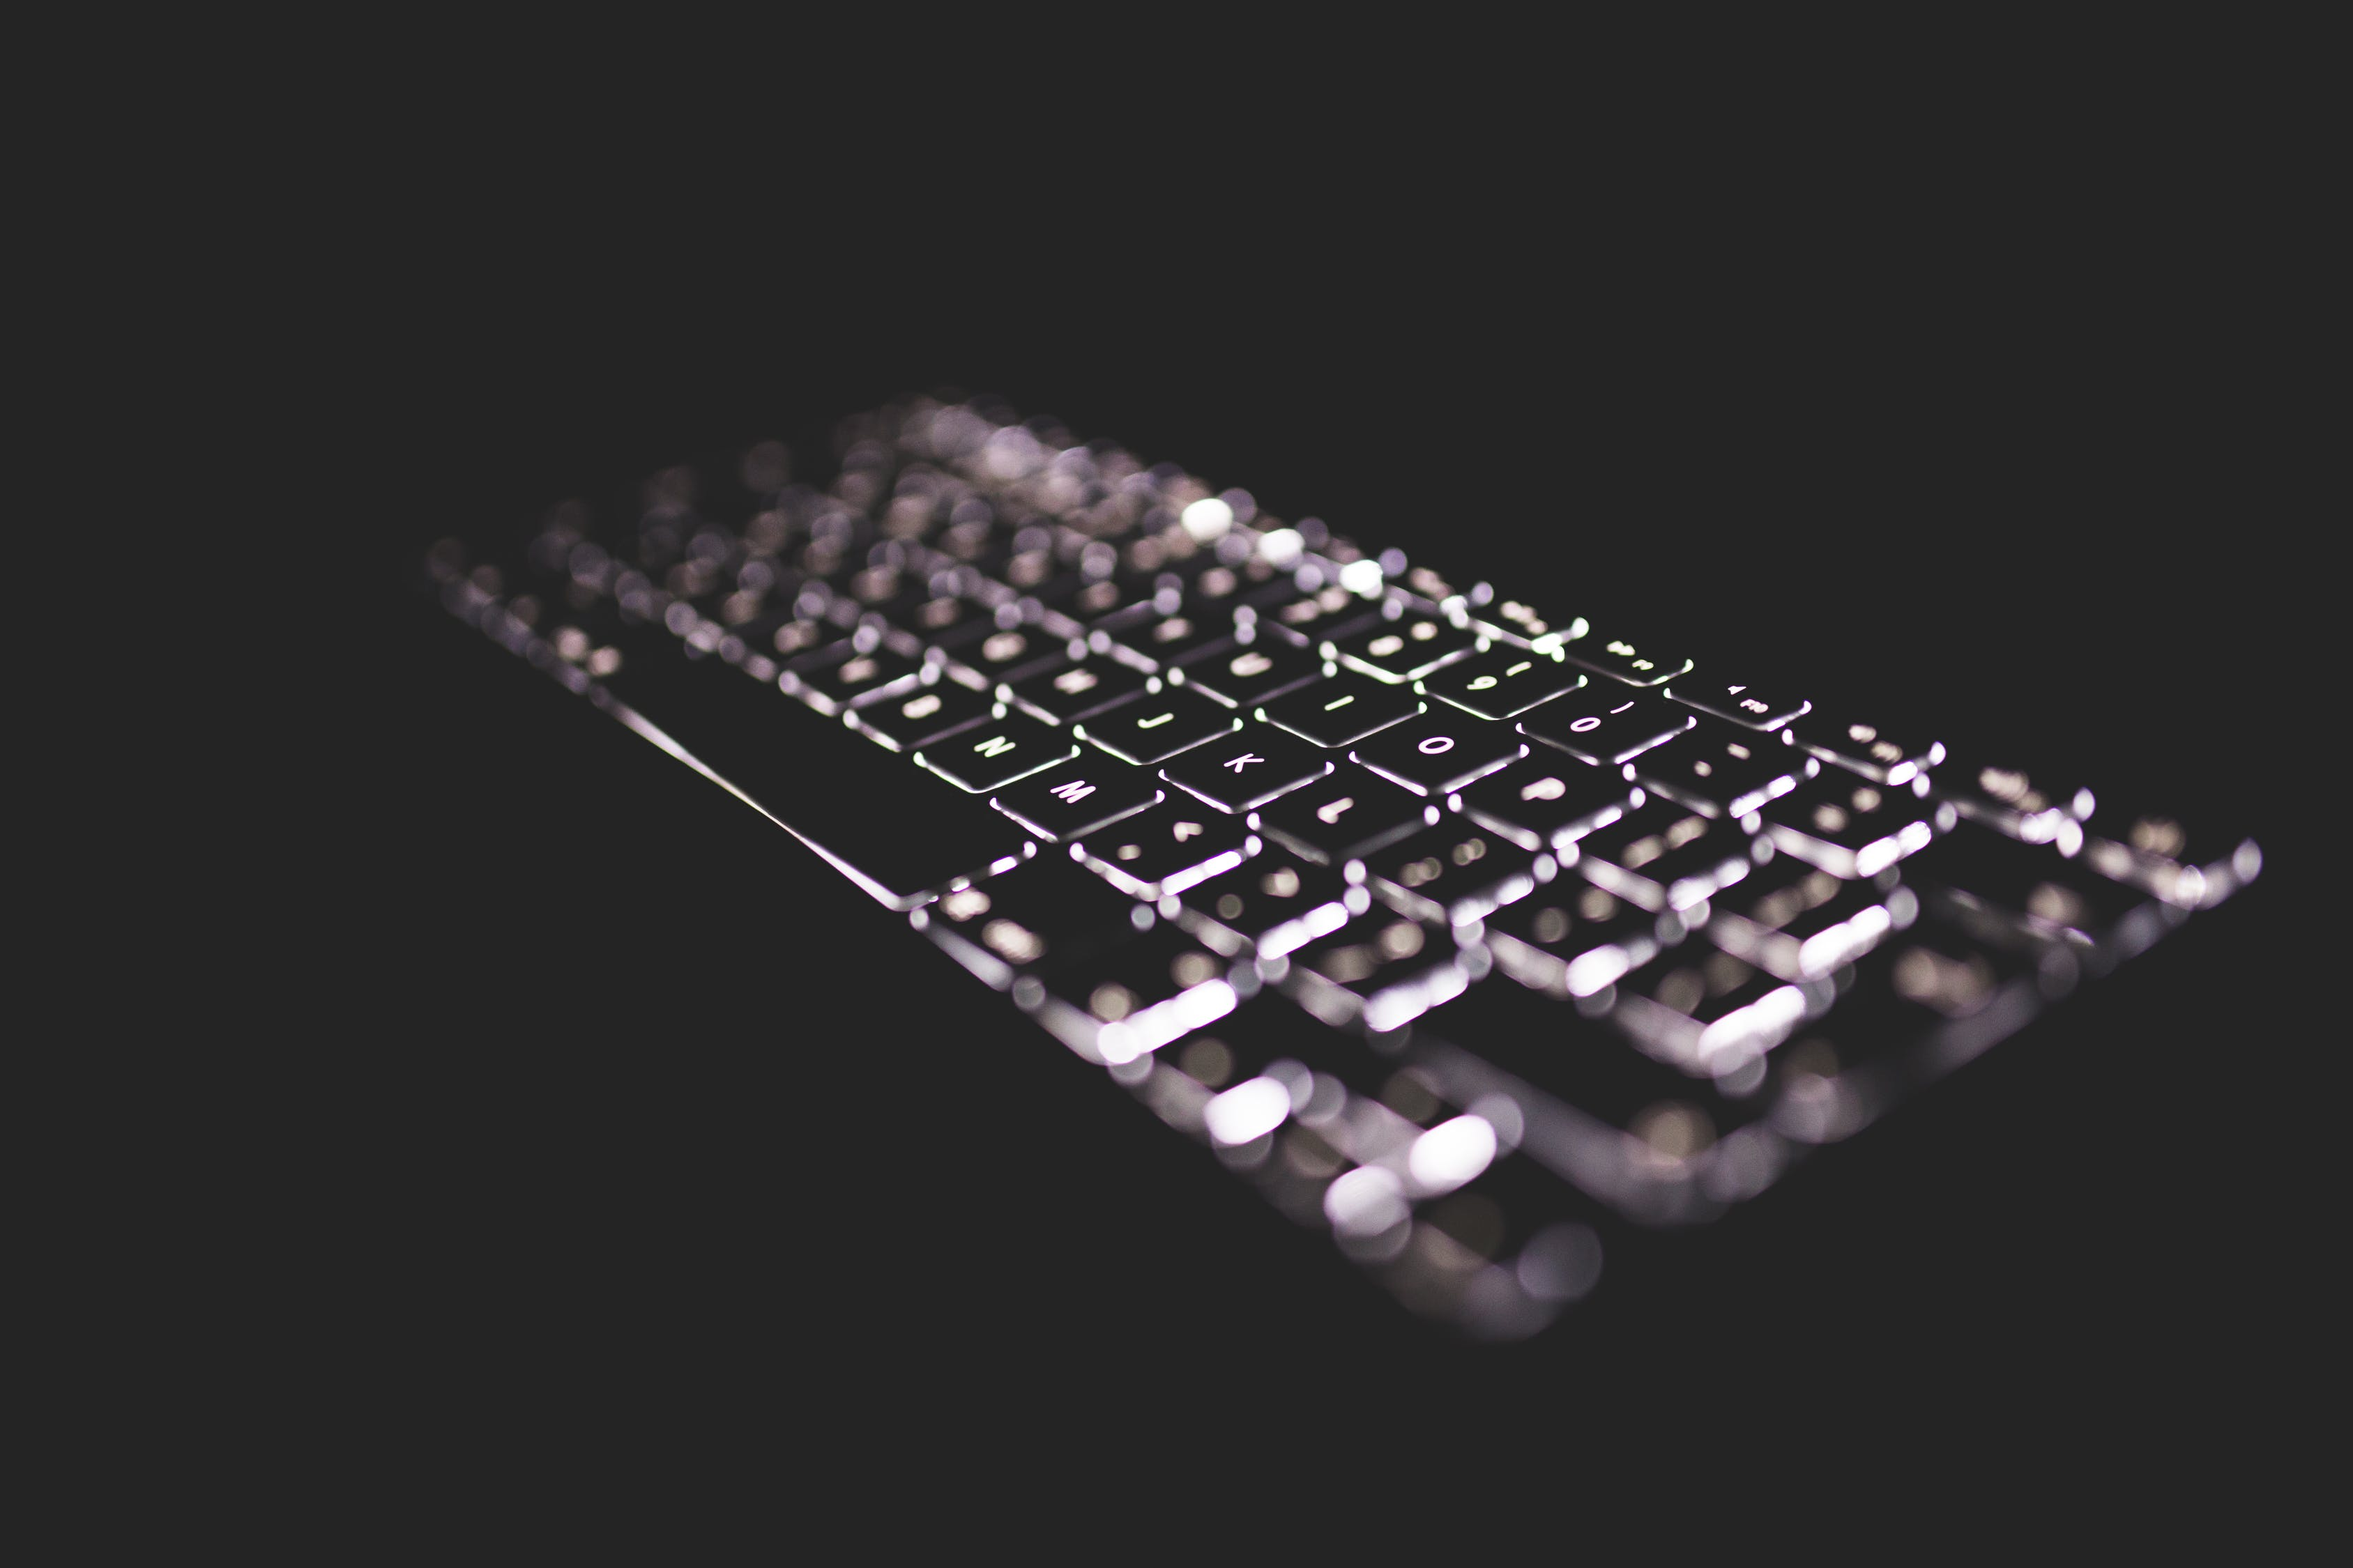
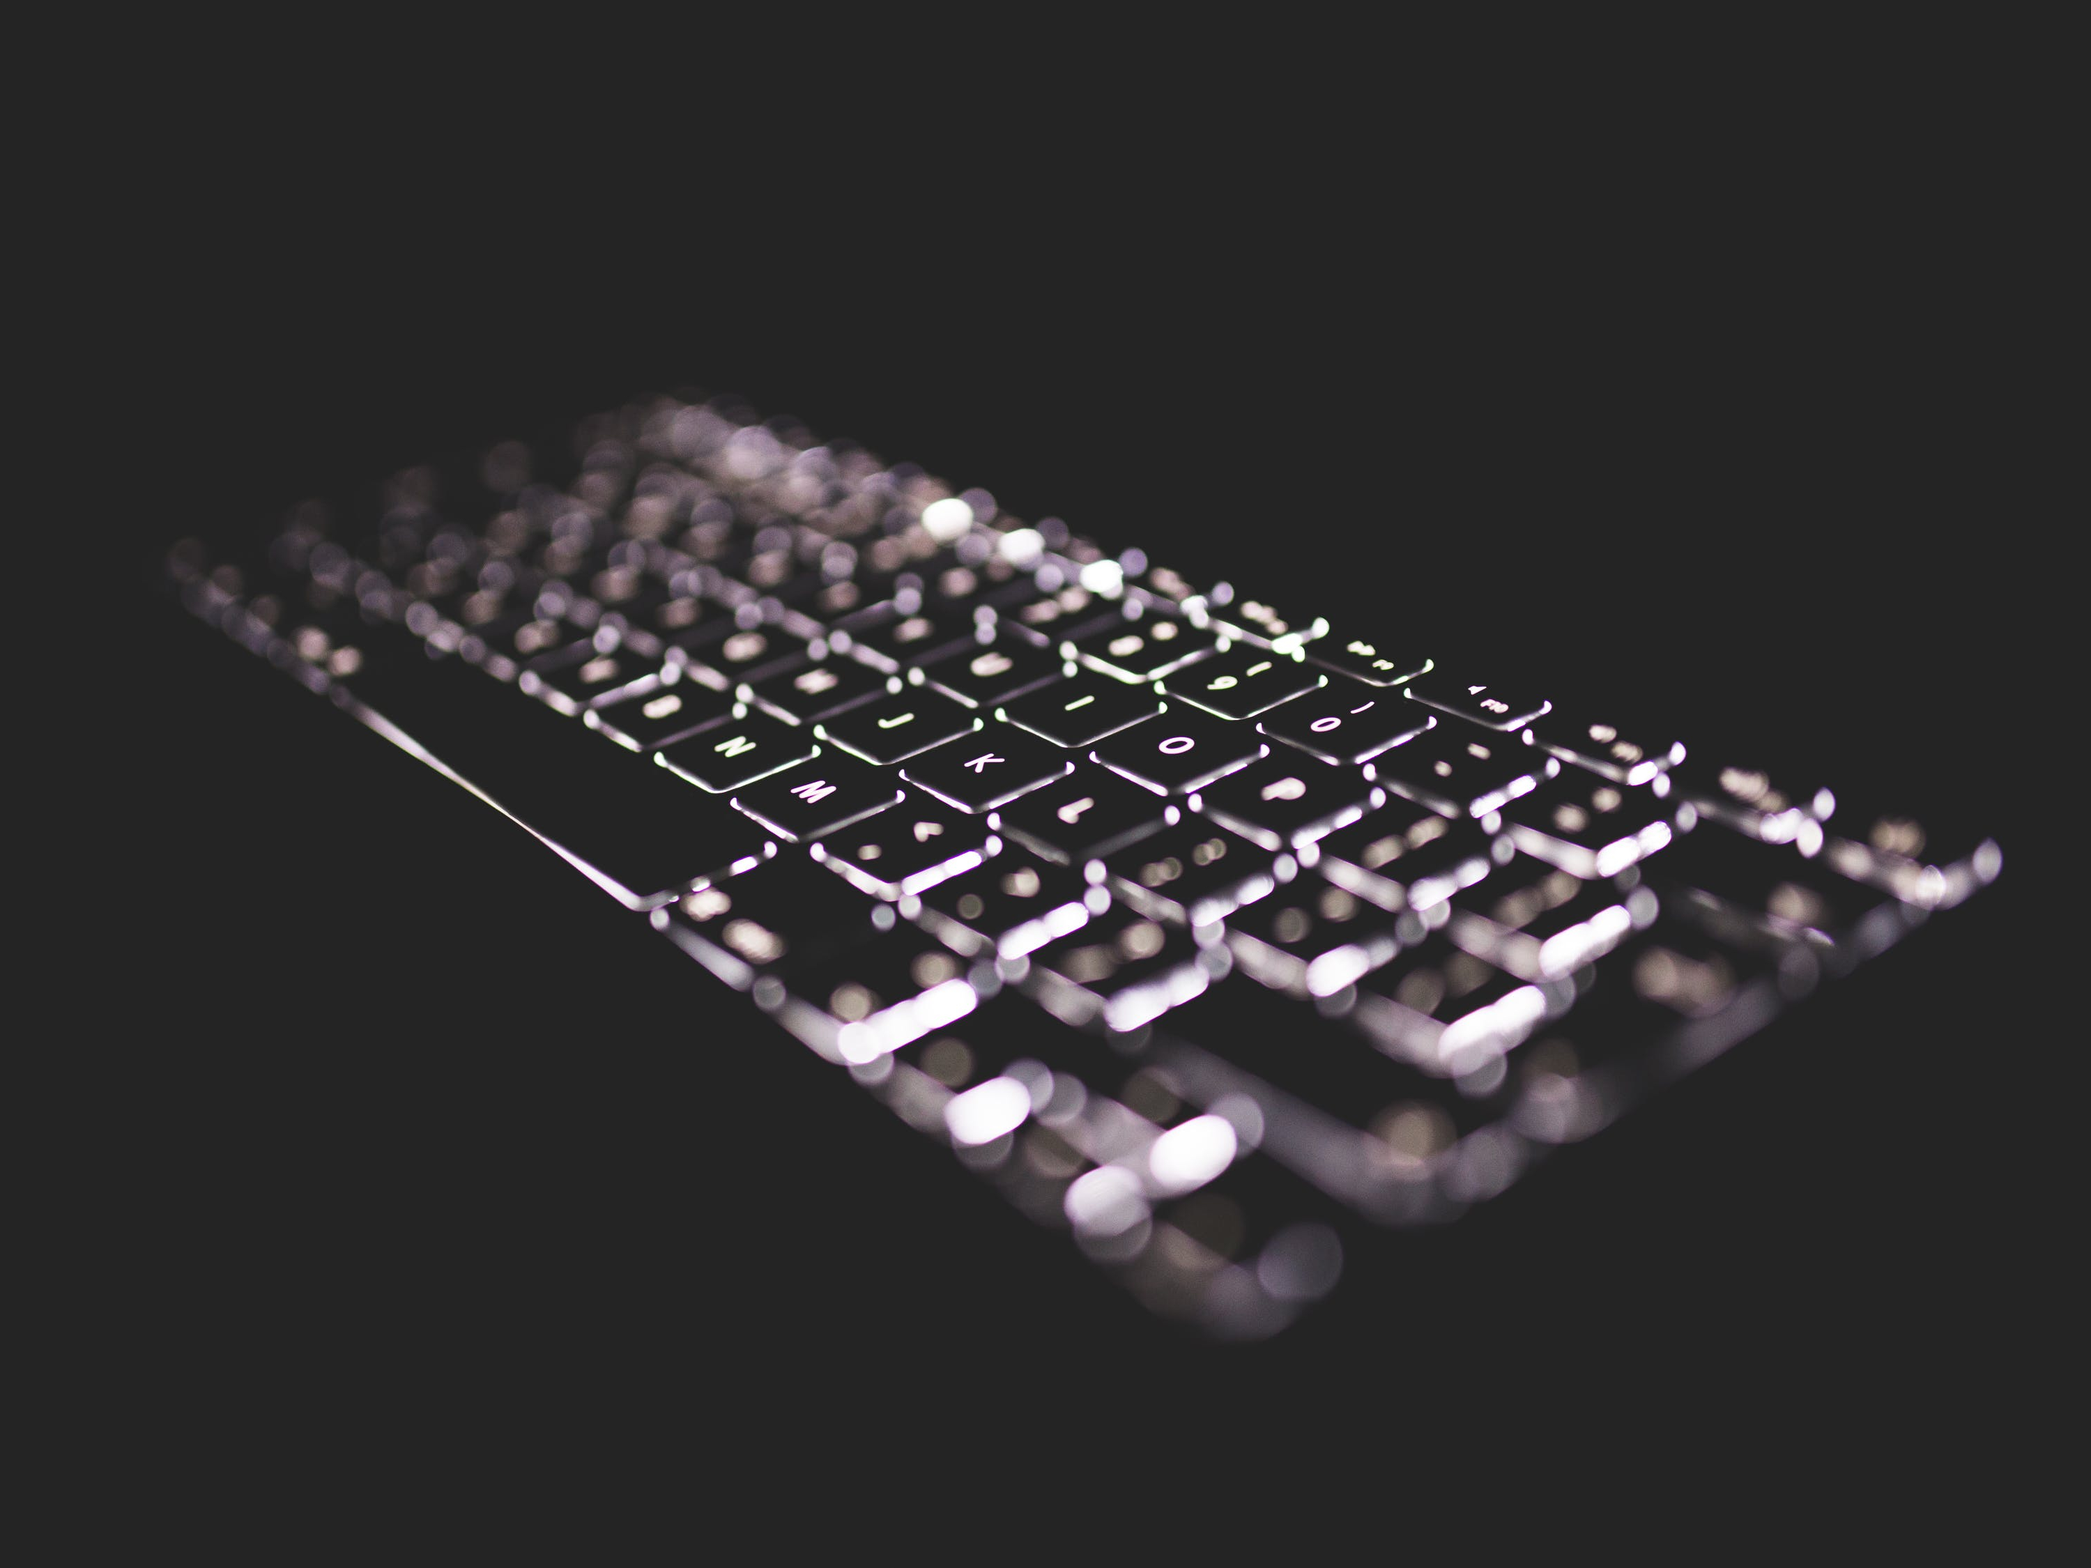
Adjust styling

diff --git a/src/app/components/typing-message/typing-message.component.ts b/src/app/components/typing-message/typing-message.component.ts
@@ -31,7 +31,11 @@ export class TypingMessageComponent implements AfterContentInit {
       } else {
         this.showCursor = !this.showCursor;
       }
-      setTimeout(() => updateCursor(), blinkTime);
+      if (repeat) {
+        setTimeout(() => updateCursor(), blinkTime);
+      } else {
+        this.showCursor = false;
+      }
     };
 
     const updateText = () => {

diff --git a/src/app/app.component.scss b/src/app/app.component.scss
@@ -33,7 +33,9 @@
   background: linear-gradient(rgba(0, 0, 0, 0.5), rgba(0, 0, 0, 0.5)),
     url(../assets/keyboard.jpg);
   background-color: rgba(40, 40, 40, 1);
-  background-size: 100% 100%;
+  background-size: 100% auto;
+  background-position: center;
+  background-repeat: no-repeat;
 }
 
 #main-content {

diff --git a/src/app/components/typing-message/typing-message.component.scss b/src/app/components/typing-message/typing-message.component.scss
@@ -3,7 +3,8 @@
 #intro-text {
   @extend .larger-text;
   width: 100%;
-  height: 2em;
+  height: fit-content;
+  min-height: 2em;
   margin: 0.5em 0;
   padding: 0 2em;
   box-sizing: border-box;

diff --git a/src/app/components/top-bar/top-bar.component.scss b/src/app/components/top-bar/top-bar.component.scss
@@ -29,5 +29,5 @@
     margin: 5px 0;
   }
   text-align: center;
-  padding: 20px 0px;
+  padding: 0.5em 0px;
 }
